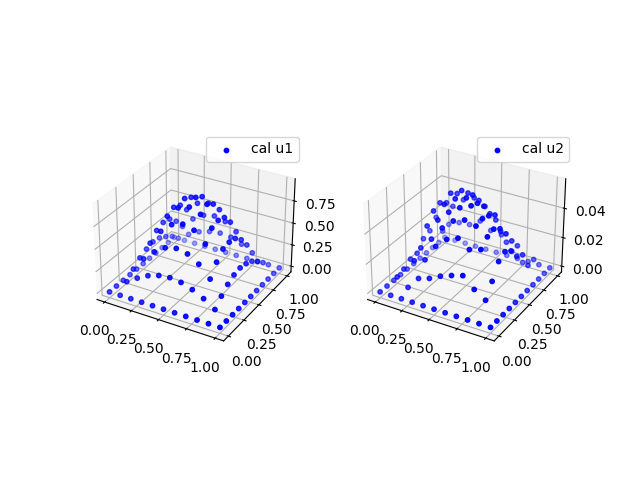
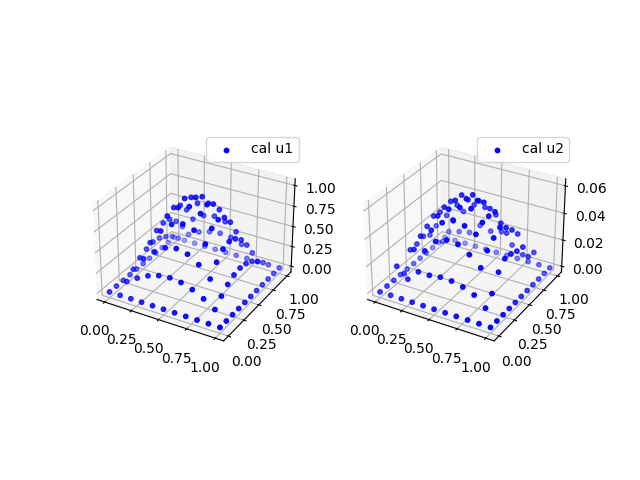
把grad改成gauss消元

diff --git a/2D/Dirichlet2D_xyt.py b/2D/Dirichlet2D_xyt.py
@@ -84,7 +84,7 @@ def get_phi_dot(unit1, unit2):
     P1 = unit1.getPoint()[0]
     P2 = unit2.getPoint()[0]
     if P1 != P2:
-        P0 = tri.getAnotherPoint(p1,p2)
+        P0 = tri.getAnotherPoint(P1,P2)
         p1 = P1.xy - P0.xy
         p2 = P2.xy - P0.xy
         det = np.abs(p1[0]*p2[1] - p2[1]*p1[0])
@@ -209,37 +209,76 @@ def is_boundary(point):
             return True
     return False
 
+def approx0(x, eps=1e-10):
+    return -eps <= x <= eps
+
+
+def ColEqRaw(AllEq):
+    all_x = []
+    for point_j in AllEq.keys():
+        for point_i in AllEq[point_j].keys():
+            if point_i == 'const':
+                continue
+            if point_i not in all_x:
+                all_x.append(point_i)
+    equation_num = len(all_x)
+    return equation_num==len(all_x)
+
+
 def solve_sparse(AllEq):
     '''
     能把AllEq消元成对角
     注意 AllEq 不包含边界
     :param AllEq: {point_j: {point_i: coef, const: b}}
     '''
+    assert ColEqRaw(AllEq), "行列数不相等"
+    print("开始消元")
     # gauss消元法
-    for point_j in AllEq.keys():
+    AllPoint = list(AllEq.keys())
+    for point_j in AllPoint:
         c_jj = AllEq[point_j][point_j]
         assert c_jj > 0
         # 先把 Eq[j][j] 化成 1
         for point_i in AllEq[point_j].keys():
-            if point_i == 'const':
-                continue
+            # 这里包括了 const
             AllEq[point_j][point_i] /= c_jj
         # 然后去消去这一列其他人
-        for point_j2 in AllEq.keys():
+        for point_j2 in AllPoint:
             if point_j2 == point_j:
                 continue
             # 如果不为0，把 point_j 那一行 加到 Point_j2 行
-            if AllEq[point_j2][point_j] == 0:
+            if not AllEq[point_j2].get(point_j):
                 continue
-            c_j2j2 = AllEq[point_j2][point_j2]
-            for point_i in AllEq[point_j].keys():
+            if approx0(AllEq[point_j2][point_j]):
+                AllEq[point_j2].pop(point_j)
+                continue
+            c_j2j = AllEq[point_j2][point_j]
+            # 只要操作 AllEq[point_j] 这些列
+            for point_i in AllEq[point_j]:
                 if AllEq[point_j2].get(point_i):
                     AllEq[point_j2][point_i] -=\
-                        AllEq[point_j][point_i] * c_j2j2
+                        AllEq[point_j][point_i] * c_j2j
                 else:
                     AllEq[point_j2][point_i] =\
-                        - AllEq[point_j][point_i] * c_j2j2
+                        - AllEq[point_j][point_i] * c_j2j
+    print("消元完成")
 
+def success_solve(AllEq):
+    '''
+    检查是否成功对角化
+    '''
+    for point_j in AllEq.keys():
+        for point_i in AllEq[point_j].keys():
+            if point_i == 'const':
+                continue
+            if point_i==point_j:
+                if AllEq[point_j][point_i] != 1:
+                    return False
+                else:
+                    continue
+            if AllEq[point_j][point_i] != 0:
+                return False
+    return True
 
 def ode_2D1T(c, f, g, u0, dt, t1, theta,
              dh, xy_boundary):
@@ -258,9 +297,8 @@ def ode_2D1T(c, f, g, u0, dt, t1, theta,
     all_tri, all_point = get_tri(xy_boundary, dh, need_disp=False)
     get_units(all_tri)
 
-    Point2AllValue = {point:[u0(point.xy)] for point in all_point}
-
     t = 0
+    Point2AllValue = {point:[(t, u0(point.xy))] for point in all_point}
 
     while t < t1:
         AllEq = {} # 未知数是 u^{n+1}
@@ -273,13 +311,13 @@ def ode_2D1T(c, f, g, u0, dt, t1, theta,
                 ) * dt
             points_neighbor = get_neighbor_points(point_j)
             for point_i in points_neighbor:
-                dot_D = get_DPhi_dot(point_i, point_j)
+                dot_D = get_DPhi_dot(point_i, point_j, lambda _: 1)
                 dot = get_Phi_dot(point_i, point_j)
                 c_i = c(point_i.xy, t)
                 
                 AllEq[point_j][point_i] = dot + dt*theta* dot_D* c_i
                 AllEq[point_j]['const'] +=\
-                    Point2AllValue[point_i][-1] (*\
+                    Point2AllValue[point_i][-1][1] * (\
                     dot - dt*(1-theta)* c_i * dot_D \
                     )
         for point_j in all_point:
@@ -297,12 +335,13 @@ def ode_2D1T(c, f, g, u0, dt, t1, theta,
                     AllEq[point_j].pop(point_i)
                     
         solve_sparse(AllEq)
+        assert success_solve(AllEq), AllEq
         
         for point_j in all_point:
             if is_boundary(point_j):
-                Point2AllValue[point_j].append(g(point_j.xy,t+dt))
+                Point2AllValue[point_j].append((t+dt, g(point_j.xy,t+dt)))
             else:
-                Point2AllValue[point_j].append(AllEq[point_j]['const'])
+                Point2AllValue[point_j].append((t+dt, AllEq[point_j]['const']))
         t += dt
         print(f'solved t = {t}, dt = {dt}, t1 = {t1}')
 
@@ -352,6 +391,45 @@ def plot_real(Point2Value, u_real):
     return loss / len(Point2Value)
 
 
+def eval_solve(Point2AllValue, u_real):
+    Point2AllValue_real = {}
+    l2 = 0
+    for point, list_t_u in Point2AllValue.items():
+        Point2AllValue_real[point] = []
+        for t, u in list_t_u:
+            Point2AllValue_real[point].append((t, u_real(point.xy, t)))
+            l2 += (u - u_real(point.xy, t))**2
+
+
+    l2 /= len(Point2AllValue) * len(list_t_u)
+
+    print(f'l2 = {l2}')
+
+    assert len(list_t_u) == int(t1//dt)+1
+
+    energy_solved_list = []
+    energy_real_list = []
+
+    for t in range(int(t1//dt)+1):
+        energy_solved = 0
+        energy_real = 0
+        for point, list_t_u in Point2AllValue.items():
+            energy_solved += list_t_u[t][1] ** 2
+            energy_real += Point2AllValue_real[point][t][1] ** 2
+        energy_solved_list.append(energy_solved)
+        energy_real_list.append(energy_real)
+
+    show_idx = -1
+    plt.subplot(121)
+    plt.plot(np.arange(0,t1+1e-5,dt)[:show_idx], energy_solved_list[:show_idx], label='energy solved')
+    plt.legend()
+    plt.subplot(122)
+    plt.plot(np.arange(0,t1+1e-5,dt)[:show_idx], energy_real_list[:show_idx], label='energy real')
+    plt.legend()
+    plt.savefig(os.path.join('output', f'xyt_dh{dh}_dt{dt}_theta{theta}.png'))
+    plt.close()
+
+
 u_real = lambda xy, t: np.exp(xy[0]+xy[1]+t)
 
 c = lambda xy, t: 2
@@ -361,10 +439,10 @@ u0 = lambda xy: np.exp(xy[0]+xy[1])
 
 g = lambda xy, t: np.exp(xy[0]+xy[1]+t)
 
-dh = 1/8
+dh = 1/16
 
-theta = 1/2
-dt = dh
+theta = 1
+dt = 4 * dh**2
 
 xy_boundary = np.array([[0,0], [1,0], [1,1], [0,1]])
 t1 = 1
@@ -372,3 +450,4 @@ t1 = 1
 Point2AllValue = ode_2D1T(c, f, g, u0, dt, t1, theta,
              dh, xy_boundary)
 
+eval_solve(Point2AllValue, u_real)

diff --git a/2D/Dirichlet22.py b/2D/Dirichlet22.py
@@ -376,9 +376,134 @@ def plot_real(Point2Value, u1_real, u2_real):
 
     return loss / len(Point2Value)
 
+
+def ColEqRaw(AllEq):
+    all_x = []
+    for point_j in AllEq.keys():
+        for point_i in AllEq[point_j].keys():
+            if point_i == 'const':
+                continue
+            if point_i not in all_x:
+                all_x.append(point_i)
+    equation_num = len(all_x)
+    return equation_num==len(all_x)
+
+
+def approx0(x, eps=1e-10):
+    return -eps <= x <= eps
+
+
+def solve_sparse(AllEq):
+    '''
+    能把AllEq消元成对角
+    注意 AllEq 不包含边界
+    :param AllEq: {point_j: {point_i: coef, const: b}}
+    '''
+    assert ColEqRaw(AllEq), "行列数不相等"
+    print("开始消元")
+    # gauss消元法
+    AllPoint = list(AllEq.keys())
+    for point_j in AllPoint:
+        c_jj = AllEq[point_j][point_j]
+        assert c_jj > 0
+        # 先把 Eq[j][j] 化成 1
+        for point_i in AllEq[point_j].keys():
+            # 这里包括了 const
+            AllEq[point_j][point_i] /= c_jj
+        # 然后去消去这一列其他人
+        for point_j2 in AllPoint:
+            if point_j2 == point_j:
+                continue
+            # 如果不为0，把 point_j 那一行 加到 Point_j2 行
+            if not AllEq[point_j2].get(point_j):
+                continue
+            if approx0(AllEq[point_j2][point_j]):
+                AllEq[point_j2].pop(point_j)
+                continue
+            c_j2j = AllEq[point_j2][point_j]
+            # 只要操作 AllEq[point_j] 这些列
+            for point_i in AllEq[point_j]:
+                if AllEq[point_j2].get(point_i):
+                    AllEq[point_j2][point_i] -=\
+                        AllEq[point_j][point_i] * c_j2j
+                else:
+                    AllEq[point_j2][point_i] =\
+                        - AllEq[point_j][point_i] * c_j2j
+    print("消元完成")
+
+def success_solve(AllEq):
+    '''
+    检查是否成功对角化
+    '''
+    for point_j in AllEq.keys():
+        for point_i in AllEq[point_j].keys():
+            if point_i == 'const':
+                continue
+            if point_i==point_j:
+                if AllEq[point_j][point_i] != 1:
+                    return False
+                else:
+                    continue
+            if AllEq[point_j][point_i] != 0:
+                return False
+    return True
+
+
 def solve_Dirichlet(xy_boundary, g1, g2, f1, f2, lam, mu, dh, num_epoch):
     AllEq, all_point, all_tri = get_matrix(xy_boundary, f1, f2, dh, lam, mu, g1, g2)
-    Point2Value = solve_matrix_torch(AllEq, all_point, num_epoch=num_epoch)
+    
+    # 先把 AllEq 换成 {(point,dim): {(point,dim):coef}, "const"}
+    new_AllEq = {}
+    for point_j, dim_pointi_dim in AllEq.items():
+        for dim_j, pointi_dim in dim_pointi_dim.items():
+            new_AllEq[(point_j,dim_j)] = {}
+            for point_i, dim_coef in pointi_dim.items():
+                if point_i == 'const':
+                    new_AllEq[(point_j,dim_j)]['const'] = dim_coef
+                    continue
+                for dim_i, coef in dim_coef.items():
+                    new_AllEq[(point_j,dim_j)][(point_i,dim_i)] = coef
+                 
+    AllEq = new_AllEq
+    All_PointDim = list(AllEq.keys())
+    # 去除边界的方程
+    for pointj_dimj in All_PointDim:
+        if is_boundary(pointj_dimj[0]):
+            AllEq.pop(pointj_dimj)
+    # 去除边界的变量
+    for pointj_dimj in AllEq.keys():
+        AllKey = list(AllEq[pointj_dimj].keys())
+        for pointi_dimi in AllKey:
+            if pointi_dimi == 'const':
+                continue
+            if is_boundary(pointi_dimi[0]):
+                AllEq[pointj_dimj].pop(pointi_dimi)
+    
+    solve_sparse(AllEq)
+    assert success_solve(AllEq), AllEq
+    
+    Point2Value = {}
+    for pointj_dimj in All_PointDim:
+        if is_boundary(pointj_dimj[0]):
+            dimj = pointj_dimj[1]
+            g_select = [g1,g2][dimj]
+            Point2Value[pointj_dimj] = g_select(pointj_dimj[0].xy)
+        else:
+            Point2Value[pointj_dimj] =\
+                AllEq[pointj_dimj]['const']
+                
+    new_Point2Value = {}
+    # {Point: (val1, val2)}
+    for point_dim, value in Point2Value.items():
+        point, dim = point_dim
+        if new_Point2Value.get(point) is None:
+            new_Point2Value[point] = [None,None]
+            new_Point2Value[point][dim] = value
+        else:
+            new_Point2Value[point][dim] = value
+
+    Point2Value = new_Point2Value
+    # Point2Value = solve_matrix_torch(AllEq, all_point, num_epoch=num_epoch)
     return Point2Value, all_point, all_tri
 
 

diff --git a/2D/mesh_div.py b/2D/mesh_div.py
@@ -49,6 +49,10 @@ class Point:
     def __init__(self, x, y):
         self.xy = np.array([x,y])
         AllPoint.append(self)
+    def __str__(self):
+        return "P({:.5f},{:.5f})".format(self.xy[0], self.xy[1])
+    def __repr__(self):
+        return self.__str__()
 
 ori_point1 = Point(-3,-3)
 ori_point2 = Point(3,-3)
